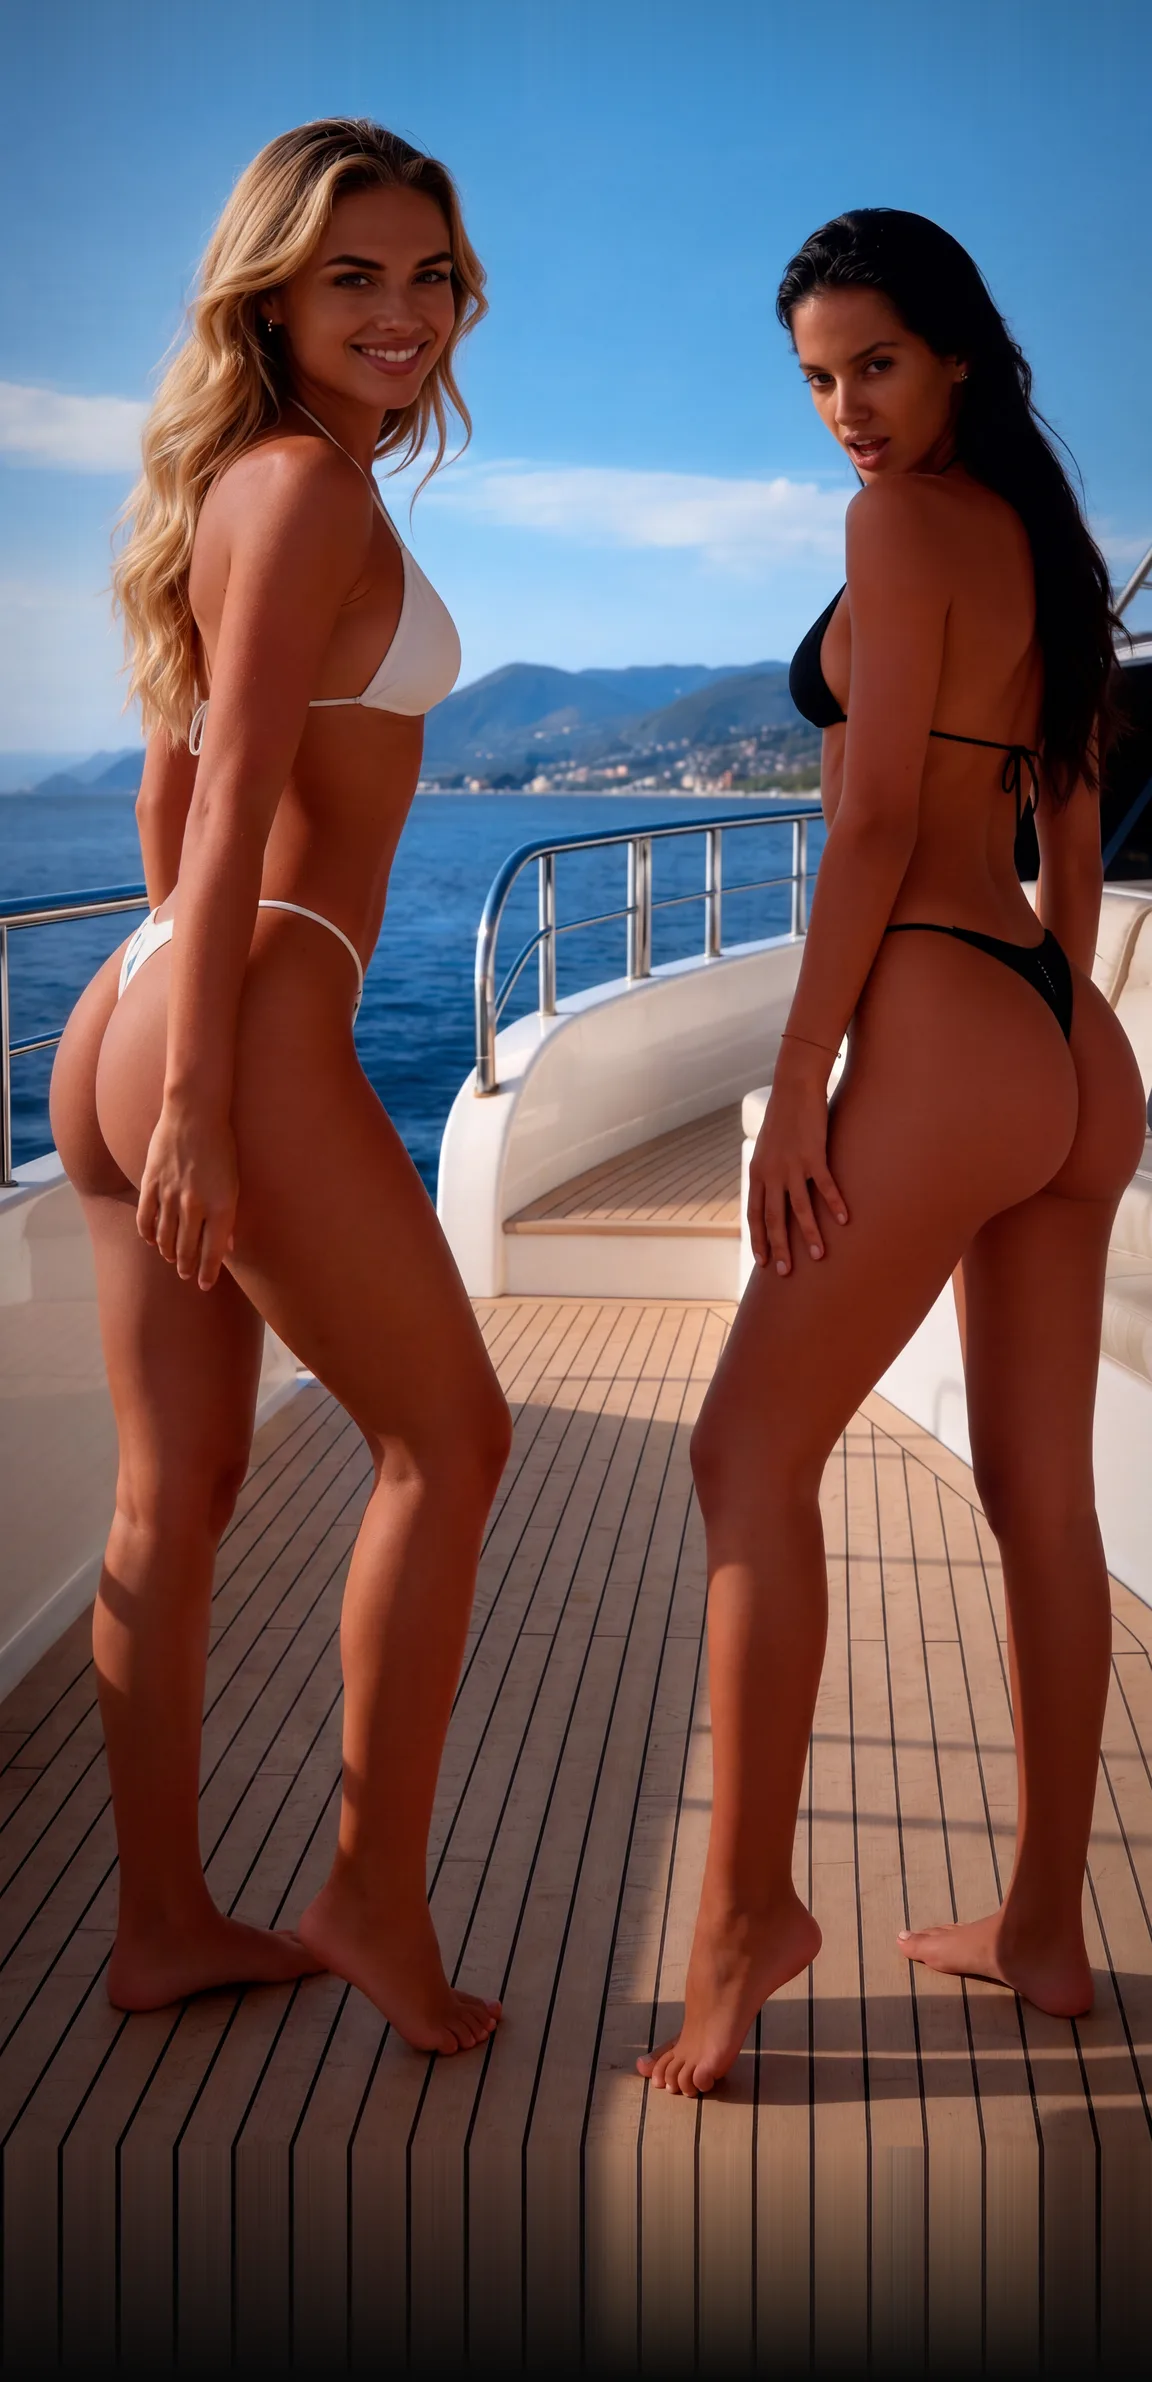
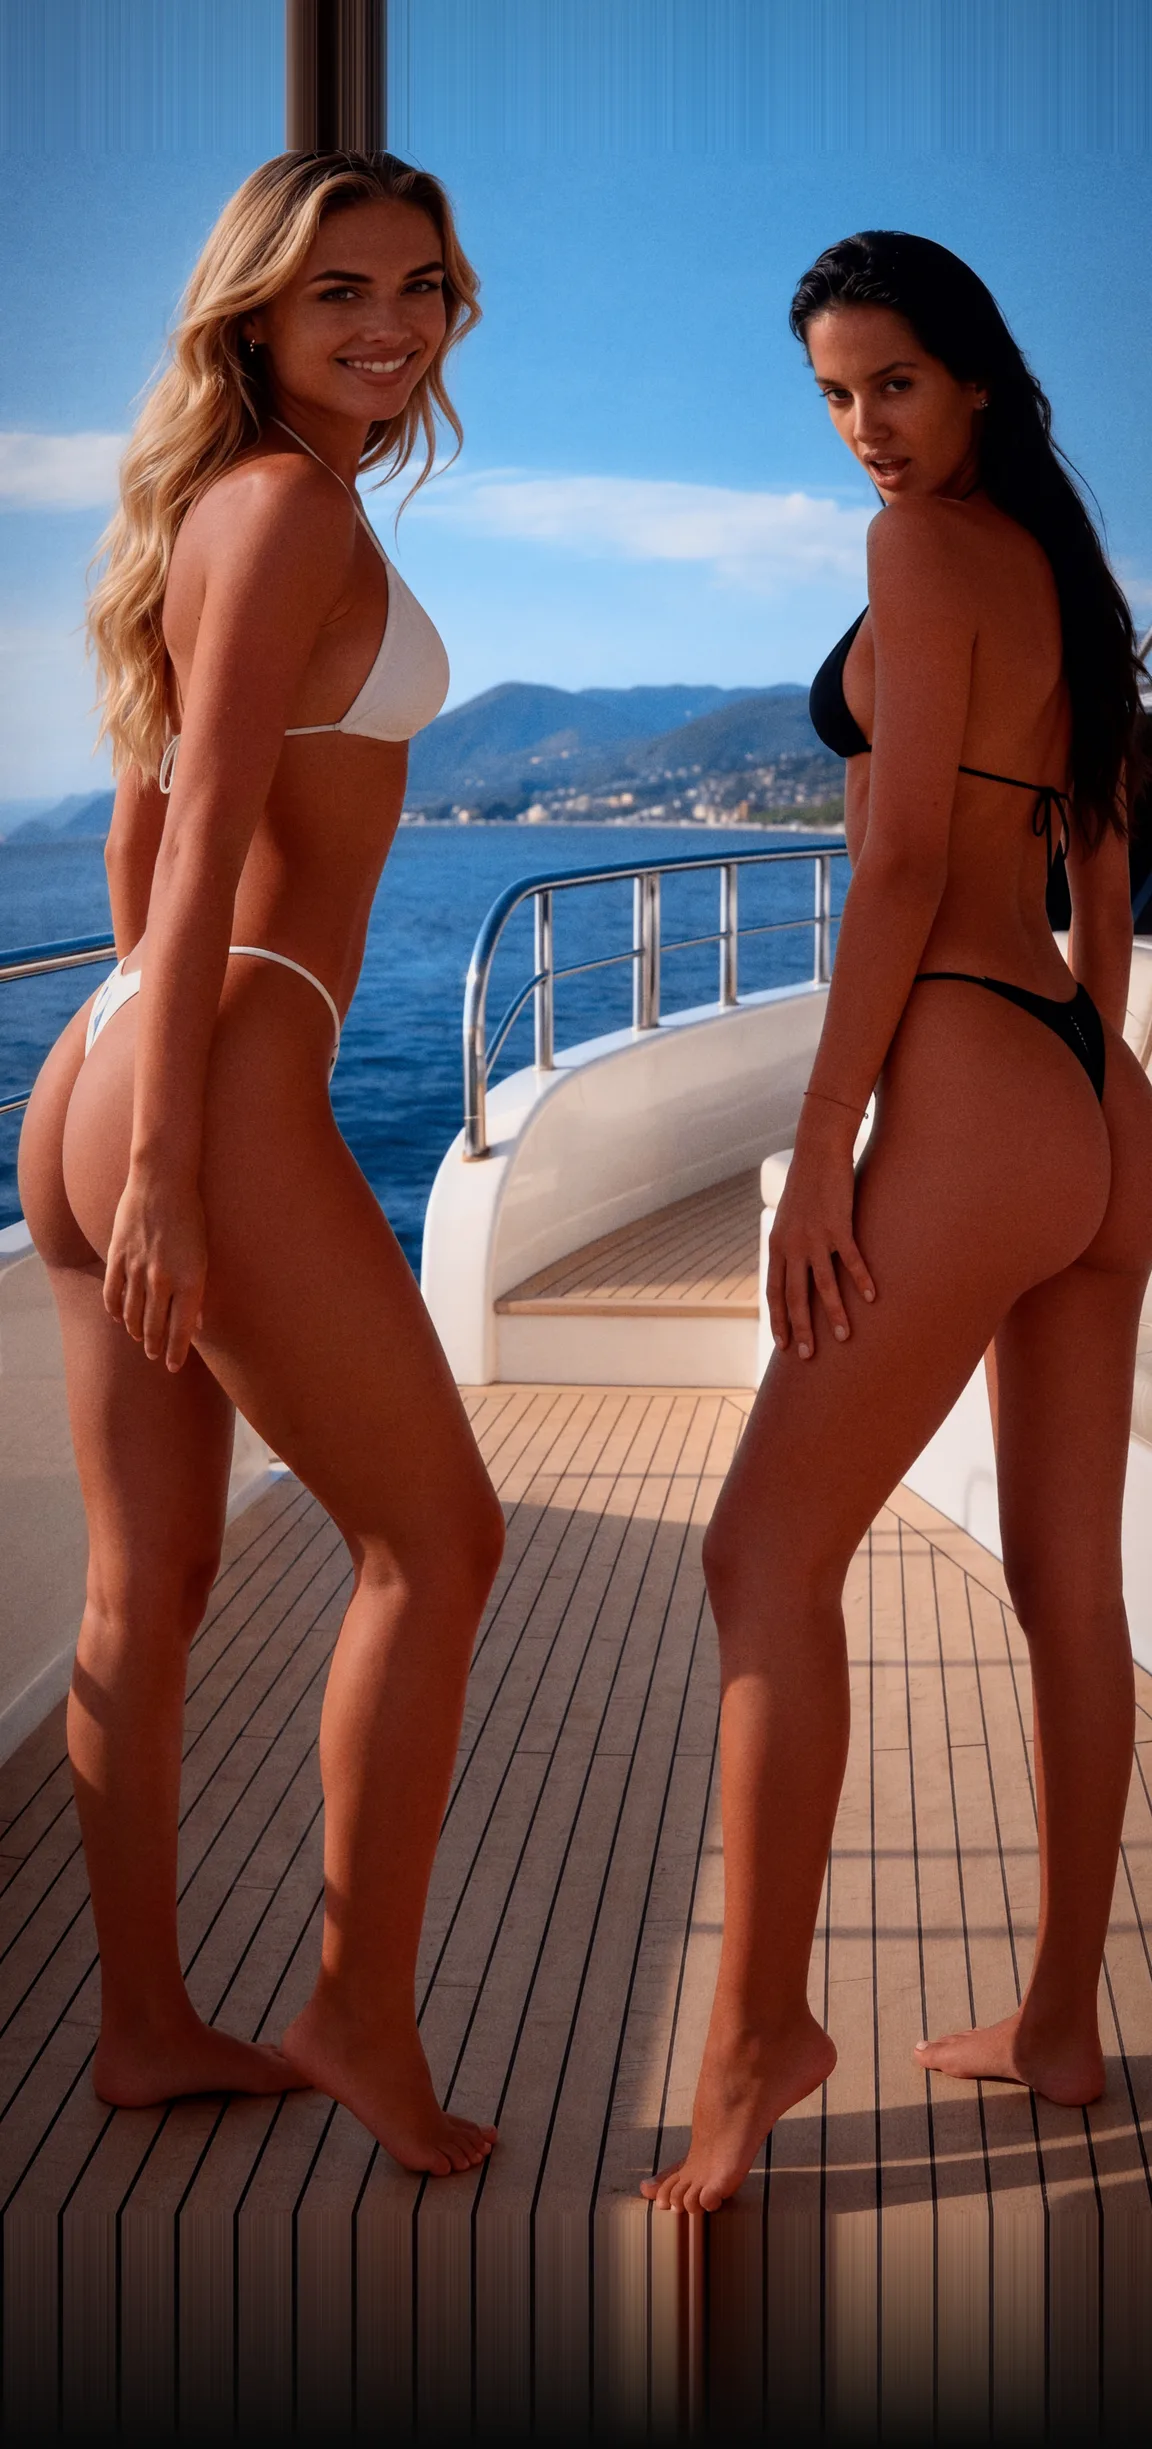
single mobile: swap to the colour-graded deck frame — full-frame width-fit (no vertical crop) so both heads stay whole with baked sky air above them; title mast sits in the sky gap between the faces, never over them; theme-color #4782b4; cache-bust v=20260709h

diff --git a/assets/css/single.css b/assets/css/single.css
@@ -213,7 +213,7 @@ section { position: relative; isolation: isolate; }
   body { display: block; height: auto; overflow-x: hidden; overflow-y: auto; }   /* small scroll from the first screen down to the footer on the photo's bottom */
   /* sky-coloured cover above the document: the top rubber-band overscroll reveals this
      instead of the black canvas, so the photo keeps «continuing» past the notch */
-  body::before { content: ''; position: absolute; top: -100vh; left: 0; width: 100%; height: 100vh; background: #498cc4; }
+  body::before { content: ''; position: absolute; top: -100vh; left: 0; width: 100%; height: 100vh; background: #4782b4; }
   /* poster layout per Figma frame 2118:54: the photo is zoomed ~130% and raised so
      the models flank the edges; the 4-line title mast sits between their faces.
      Hero height = rendered photo height (129.5vw · 2048/1152 − 6.7vw raise ≈ 223.4vw):
@@ -231,7 +231,7 @@ section { position: relative; isolation: isolate; }
      (105vw); the file carries a baked 100px sky extension on top (air above the heads,
      clears the status bar) and a 234px fade-to-black bottom (under the footer overlay),
      so the photo fills the 208vw canvas: 105vw * (2382/1152) ≈ 217vw, bottom crop hidden */
-  .s-hero__bg { background-image: url('../scenes/single-hero-mobile.webp?v=20260709g'); background-size: 105vw auto; background-position: -2.8vw 0; transform: none; }
+  .s-hero__bg { background-image: url('../scenes/single-hero-mobile.webp?v=20260709h'); background-size: 105vw auto; background-position: -2.8vw 0; transform: none; }
   /* retouch patches removed — the new daytime frame is clean at the top-right */
   /* translucent scrim: the faces band up top stays clear, depth grows toward the footer;
      the radial layer darkens the centre of the composition (bright deck/sea behind the

diff --git a/single.html b/single.html
@@ -8,7 +8,7 @@
 <meta name="description" content="ПОКЕРОК — лидер мирового онлайн покера. Бонус $600 для новых игроков, розыгрыши от $10 000 000 каждый месяц, серии WSOP и все форматы: Холдем, Омаха и уникальные игры.">
 <!-- mobile: the notch/status band is painted with theme-color — sky-blue matches the
      photo's top edge so the image visually continues into the notch; desktop stays dark -->
-<meta name="theme-color" media="(max-width: 640px)" content="#498cc4">
+<meta name="theme-color" media="(max-width: 640px)" content="#4782b4">
 <meta name="theme-color" content="#080808">
 <meta property="og:type" content="website">
 <meta property="og:title" content="ПОКЕРОК — Жаркое лето, яркие бонусы">
@@ -23,7 +23,7 @@
 <link rel="preconnect" href="https://fonts.gstatic.com" crossorigin>
 <link href="https://fonts.googleapis.com/css2?family=Montserrat:wght@500;600;700;800&family=Raleway:wght@400;500;600;700&display=swap" rel="stylesheet">
 <link rel="preload" as="image" href="assets/scenes/single-hero.webp?v=20260709a">
-<link rel="stylesheet" href="assets/css/single.css?v=20260709g">
+<link rel="stylesheet" href="assets/css/single.css?v=20260709h">
 </head>
 <body>
 
@@ -113,6 +113,6 @@
   </div>
 </footer>
 
-<script src="assets/js/single.js?v=20260709g"></script>
+<script src="assets/js/single.js?v=20260709h"></script>
 </body>
 </html>
